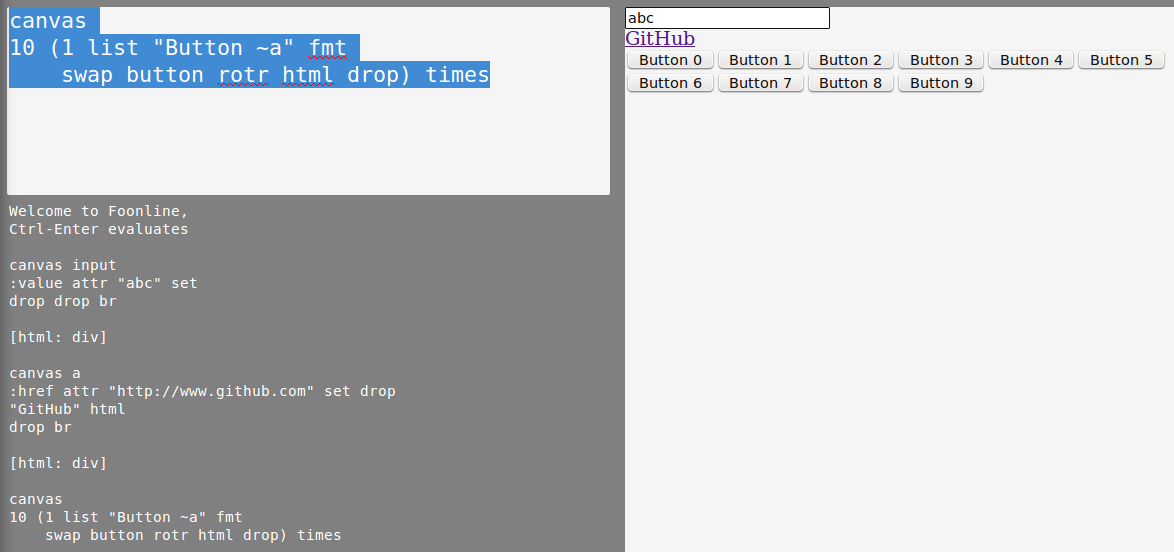
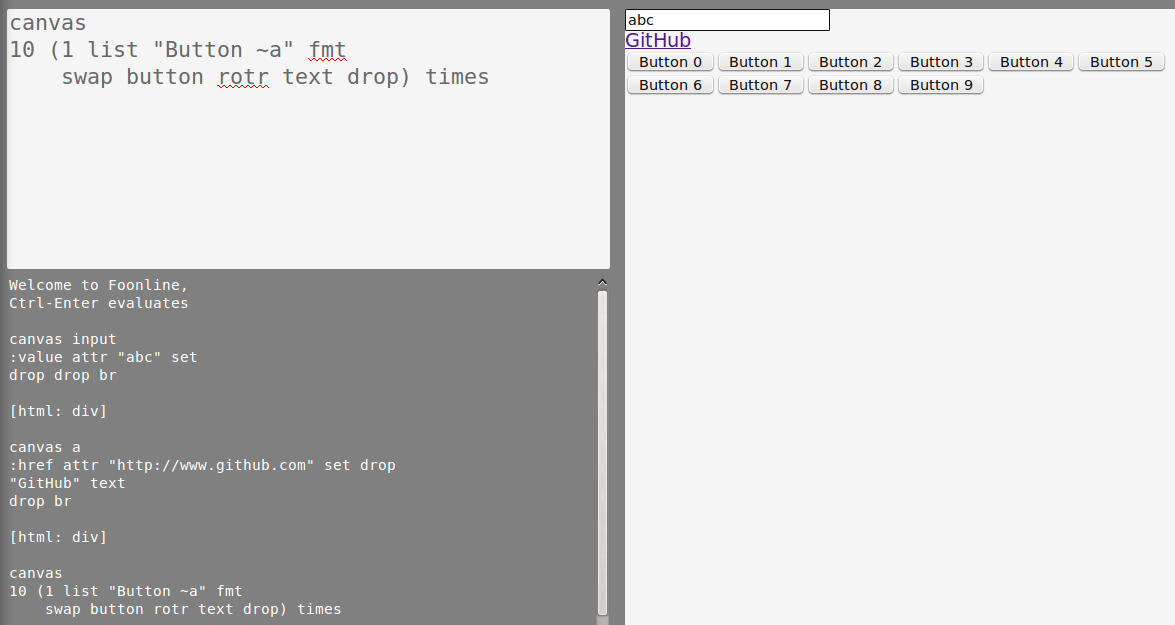
updated examples

diff --git a/www/foonline.css b/www/foonline.css
@@ -20,11 +20,19 @@ input {
     border-radius: 0.1em;    
 }
 
+th {
+    background-color: gray;
+    color: white;
+    padding-left: 0.2em;
+    text-align: left;
+}
+
 #canvas {
     background-color: whitesmoke;
     border: none;
     border-radius: 0.1em;
     display: inline-block;
+    font-family: verdana, sans-serif;
     height:95vh;
     margin-top: 1px;
     width: 49.5%;
@@ -34,7 +42,7 @@ input {
     background-color: gray;
     border: none;
     color: white;
-    font: monospace;
+    font-family: monospace;
     height: 60%;
     resize: none;
     width: 100%;
@@ -45,7 +53,7 @@ input {
     border: none;
     border-radius: 0.1em;
     color: dimgray;
-    font: monospace;
+    font-family: monospace;
     font-size: 150%;
     height: 40%;
     margin-bottom: 1%;

diff --git a/README.md b/README.md
@@ -14,6 +14,8 @@ Foonline provides direct real-time access to it's own user interface in the form
 
 ![Controls Example](https://github.com/codr4life/foonline/blob/master/example_controls.png)
 
+![Table Example](https://github.com/codr4life/foonline/blob/master/example_table.png)
+
 ![Events Example](https://github.com/codr4life/foonline/blob/master/example_events.png)
 
 ### future directions
